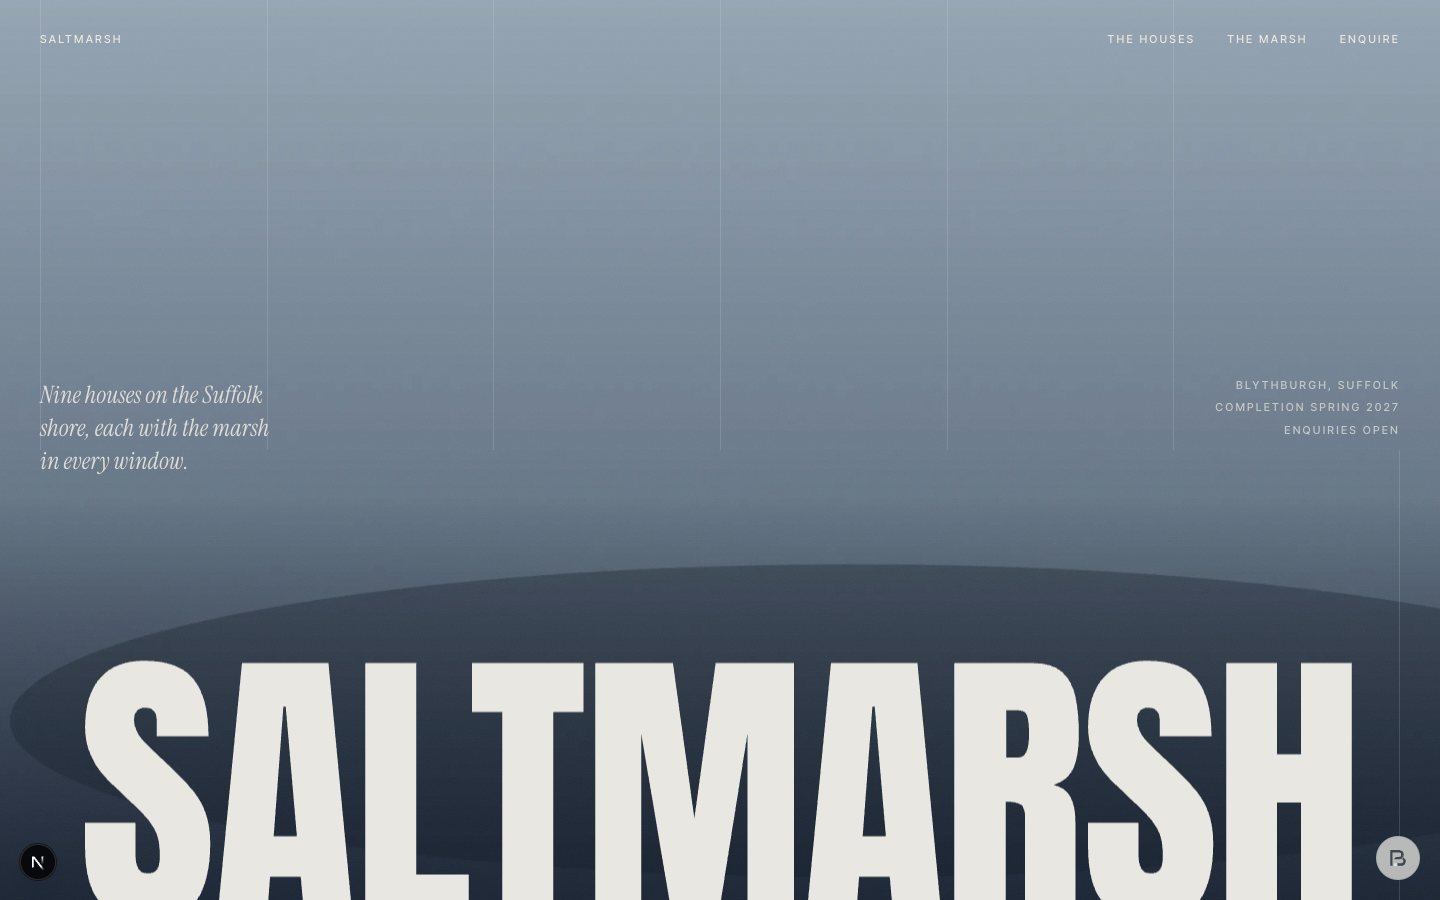
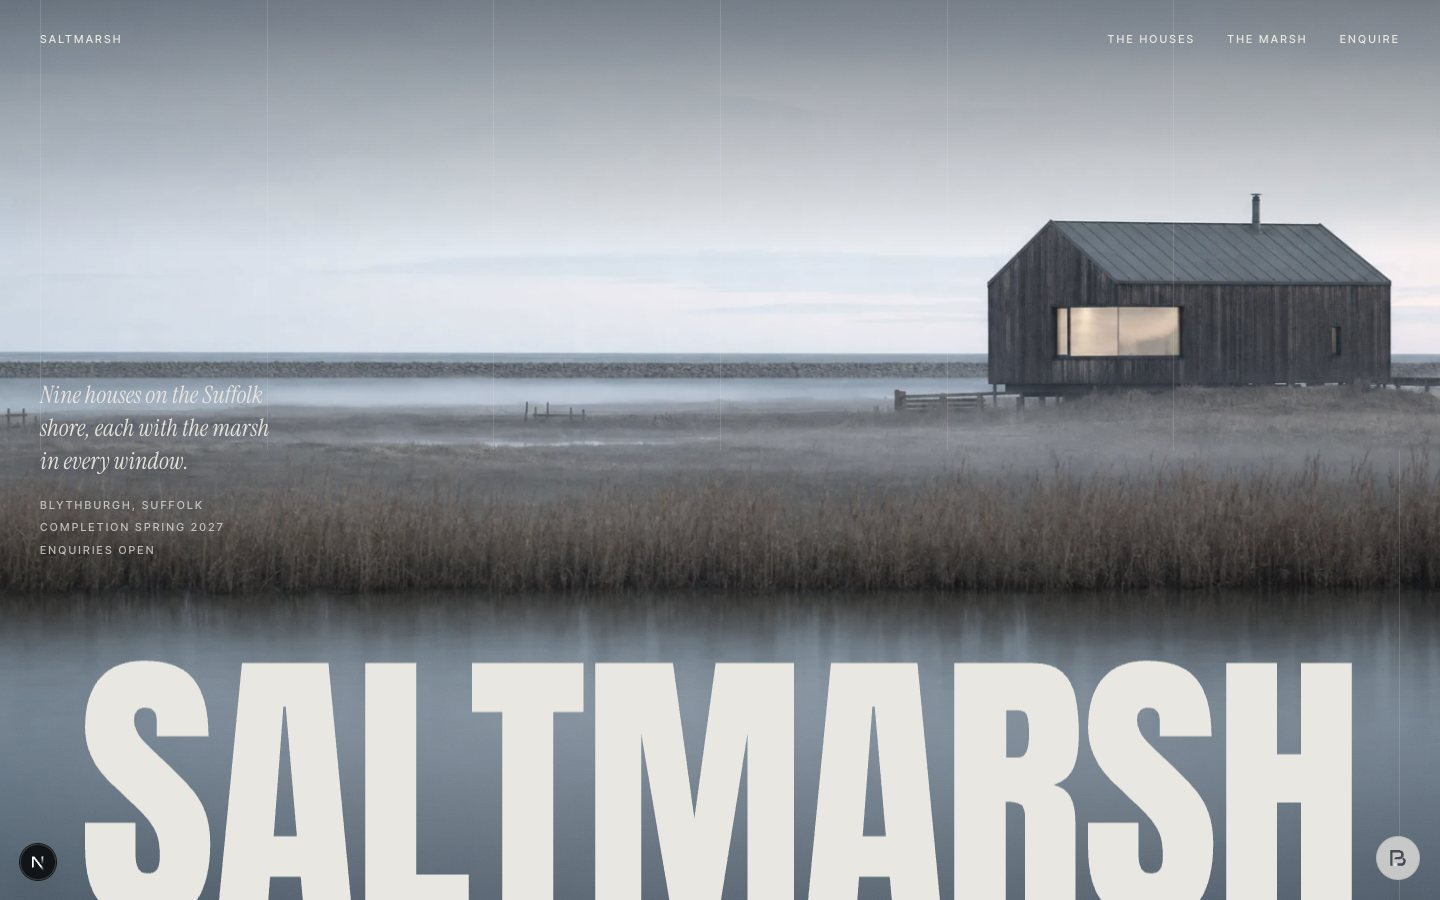
Set the Saltmarsh photograph and settle the text over it
The marsh house photograph replaces the placeholder gradient. A top scrim
lets the header read on the pale sky, the meta moves under the italic line
so the house stays clear, and the overlay lines carry a soft shadow.

diff --git a/app/(concepts)/saltmarsh/_components/hero.tsx b/app/(concepts)/saltmarsh/_components/hero.tsx
@@ -51,6 +51,7 @@ export function Hero() {
       </motion.div>
 
       <div aria-hidden className="absolute inset-0 bg-[linear-gradient(to_top,rgba(15,23,34,0.55),rgba(15,23,34,0)_45%)]" />
+      <div aria-hidden className="absolute inset-x-0 top-0 h-[28%] bg-[linear-gradient(to_bottom,rgba(15,23,34,0.5),rgba(15,23,34,0))]" />
       <div aria-hidden className="grain absolute inset-0 opacity-70" />
 
       {/* Thin vertical rules, drawn in after the photograph. */}
@@ -82,12 +83,12 @@ export function Hero() {
         initial={{ opacity: 0 }}
         animate={{ opacity: shown }}
         transition={at(1.5)}
-        className="italic-serif absolute top-[42%] left-6 max-w-[22ch] text-[clamp(1.1rem,1.7vw,1.5rem)] leading-snug text-foreground/90 sm:left-10"
+        className="italic-serif absolute top-[42%] left-6 max-w-[22ch] text-[clamp(1.1rem,1.7vw,1.5rem)] leading-snug text-foreground/95 [text-shadow:0_1px_18px_rgba(15,23,34,0.45)] sm:left-10"
       >
         {LINE}
       </motion.p>
 
-      <motion.dl initial={{ opacity: 0 }} animate={{ opacity: shown }} transition={at(1.9)} className="label absolute top-[42%] right-6 hidden flex-col gap-2 text-right text-foreground/70 sm:right-10 sm:flex">
+      <motion.dl initial={{ opacity: 0 }} animate={{ opacity: shown }} transition={at(1.9)} className="label absolute top-[calc(42%+7.5rem)] left-6 hidden flex-col gap-2 text-foreground/75 [text-shadow:0_1px_14px_rgba(15,23,34,0.5)] sm:left-10 sm:flex">
         {META.map((m) => (
           <dd key={m}>{m}</dd>
         ))}
